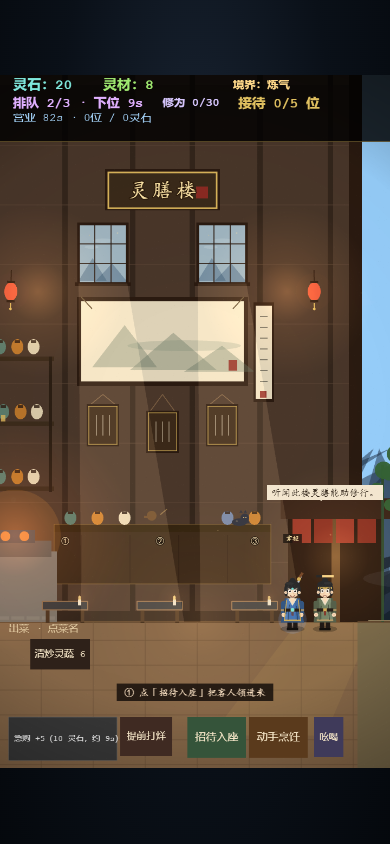
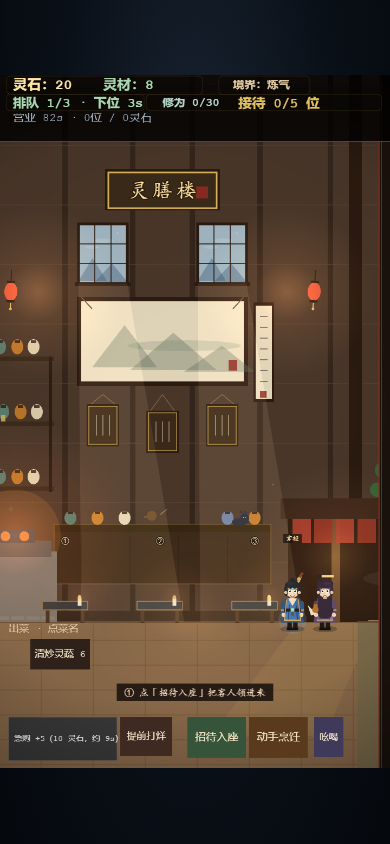
HUD 统一配色分组；封右墙天蓝条；烛光加晕

diff --git a/src/main.ts b/src/main.ts
@@ -1201,6 +1201,8 @@ class TavernScene extends Phaser.Scene {
   private interiorSign?: Phaser.GameObjects.Text;
   private hudBar!: Phaser.GameObjects.Rectangle;
   private hudLine!: Phaser.GameObjects.Rectangle;
+  private hudChips!: Phaser.GameObjects.Graphics;
+  private rightFrame!: Phaser.GameObjects.Container;
   private tutorialBanner!: Phaser.GameObjects.Text;
   private staffChars: Partial<Record<StaffRole, Character>> = {};
   private playerGender: "male" | "female" = "male";
@@ -2186,14 +2188,14 @@ class TavernScene extends Phaser.Scene {
     gfx.clear();
     // 背景墙：暗木与暖灰泥
     gfx.fillStyle(0x493629, 1);
-    gfx.fillRect(-360, 0, 720, FLOOR_Y);
+    gfx.fillRect(-360, 0, 790, FLOOR_Y);
     gfx.fillStyle(0x5a4332, 1);
-    gfx.fillRect(-360, 0, 720, 18);
+    gfx.fillRect(-360, 0, 790, 18);
     gfx.fillStyle(0x33251b, 1);
-    gfx.fillRect(-360, FLOOR_Y - 20, 720, 20);
-    for (const x of [-310, -180, -55, 55, 180, 310]) gfx.fillRect(x - 5, 0, 10, FLOOR_Y);
+    gfx.fillRect(-360, FLOOR_Y - 20, 790, 20);
+    for (const x of [-310, -180, -55, 55, 180, 310, 420]) gfx.fillRect(x - 5, 0, 10, FLOOR_Y);
     gfx.lineStyle(2, 0x5a4434, 0.5);
-    for (let y = 130; y < FLOOR_Y - 20; y += 110) gfx.lineBetween(-360, y, 360, y);
+    for (let y = 130; y < FLOOR_Y - 20; y += 110) gfx.lineBetween(-360, y, 430, y);
 
     // 山水挂画
     gfx.fillStyle(0x2a1a10, 1);
@@ -2321,12 +2323,12 @@ class TavernScene extends Phaser.Scene {
 
     // 地面
     gfx.fillStyle(0x8a6a4a, 1);
-    gfx.fillRect(-360, FLOOR_Y, 720, 1400 - FLOOR_Y);
+    gfx.fillRect(-360, FLOOR_Y, 790, 1400 - FLOOR_Y);
     gfx.lineStyle(3, 0x5a4028, 1);
-    gfx.lineBetween(-360, FLOOR_Y, 360, FLOOR_Y);
+    gfx.lineBetween(-360, FLOOR_Y, 430, FLOOR_Y);
     gfx.lineStyle(2, 0x75583c, 0.6);
-    for (let y = FLOOR_Y + 34; y < 1400; y += 46) gfx.lineBetween(-360, y, 360, y);
-    for (let x = -320; x < 360; x += 96) gfx.lineBetween(x, FLOOR_Y, x, 1400);
+    for (let y = FLOOR_Y + 34; y < 1400; y += 46) gfx.lineBetween(-360, y, 430, y);
+    for (let x = -320; x < 430; x += 96) gfx.lineBetween(x, FLOOR_Y, x, 1400);
 
     // 左侧厨房：石灶、铁锅、火与挂着的炊具
     gfx.fillStyle(0xff9a3a, 0.14);
@@ -2903,6 +2905,11 @@ class TavernScene extends Phaser.Scene {
     this.buildWindowFrames();
     this.buildWindowLight();
     this.buildSceneGrade();
+    // 营业镜头右缘的立柱/帘：遮住墙外的天空色条，同时像一道前景画框
+    this.rightFrame = this.add.container(0, 0).setScrollFactor(0).setDepth(22).setVisible(false);
+    this.rightFrame.add(this.add.rectangle(710, 640, 20, 1280, 0x1a120c, 1));
+    this.rightFrame.add(this.add.rectangle(700, 640, 3, 1280, 0x8a2a22, 0.85));
+    this.rightFrame.add(this.add.rectangle(704, 640, 1.5, 1280, 0xd9b45a, 0.35));
 
     // 顶部 HUD 悬浮条
     this.hudBar = this.add
@@ -2916,17 +2923,29 @@ class TavernScene extends Phaser.Scene {
       .setOrigin(0, 0)
       .setScrollFactor(0)
       .setDepth(30.5);
+    // 四块很淡的底，把资源 / 境界 / 排队 / 进度分组，不再像一排调试数字
+    this.hudChips = this.add.graphics().setScrollFactor(0).setDepth(30.2);
+    this.hudChips.fillStyle(0x0a0704, 0.42);
+    this.hudChips.fillRoundedRect(12, 2, 362, 34, 8);
+    this.hudChips.fillRoundedRect(404, 2, 168, 34, 8);
+    this.hudChips.fillRoundedRect(12, 36, 254, 30, 7);
+    this.hudChips.fillRoundedRect(270, 36, 434, 30, 7);
+    this.hudChips.lineStyle(1, 0x8a6a3a, 0.28);
+    this.hudChips.strokeRoundedRect(12, 2, 362, 34, 8);
+    this.hudChips.strokeRoundedRect(404, 2, 168, 34, 8);
+    this.hudChips.strokeRoundedRect(12, 36, 254, 30, 7);
+    this.hudChips.strokeRoundedRect(270, 36, 434, 30, 7);
 
-    this.coinsText = this.addUiText(24, 6, "", "26px", "#7fe8dd");
-    this.inventoryText = this.addUiText(190, 6, "", "26px", "#9fe870");
+    this.coinsText = this.addUiText(24, 6, "", "26px", "#ffe6a8");
+    this.inventoryText = this.addUiText(190, 6, "", "26px", "#a8d8b0");
     this.levelText = this.addUiText(400, 6, "", "18px", "#87ceeb");
-    this.queueText = this.addUiText(24, 40, "", "24px", "#e0b0ff");
-    this.realmText = this.addUiText(430, 9, "", "21px", "#ffd98a");
-    this.cultivationText = this.addUiText(300, 42, "", "21px", "#d8c8ff");
-    this.goalText = this.addUiText(440, 40, "", "25px", "#9fdf6a");
+    this.queueText = this.addUiText(24, 40, "", "24px", "#d8c8a8");
+    this.realmText = this.addUiText(430, 9, "", "21px", "#e0c9a0");
+    this.cultivationText = this.addUiText(300, 42, "", "21px", "#b8d8c8");
+    this.goalText = this.addUiText(440, 40, "", "25px", "#e0c060");
     this.goalText.setWordWrapWidth(260);
-    this.sessionText = this.addUiText(24, 70, "", "21px", "#a8d8ff");
-    this.chronicleText = this.addUiText(24, 96, "", "17px", "#cccccc");
+    this.sessionText = this.addUiText(24, 70, "", "21px", "#a8b8c8");
+    this.chronicleText = this.addUiText(24, 96, "", "17px", "#b8b0a0");
     [this.coinsText, this.inventoryText, this.queueText, this.realmText, this.cultivationText, this.goalText].forEach(
       (text) => text.setStyle({ fontStyle: "bold" }),
     );
@@ -3246,12 +3265,21 @@ class TavernScene extends Phaser.Scene {
     const candleGlow = this.add
       .image(0, 0, "soft-glow")
       .setTint(0xffa050)
-      .setAlpha(0.12)
-      .setScale(0.24)
+      .setAlpha(0.16)
+      .setScale(0.6)
       .setBlendMode(Phaser.BlendModes.ADD)
       .setDepth(1.9);
-    const candleBody = this.add.rectangle(0, 0, 6, 11, 0xf0e2c8).setDepth(2.7);
-    const candleFlame = this.add.ellipse(0, 0, 5, 9, 0xffd98a).setDepth(2.8);
+    const candleBody = this.add.rectangle(0, 0, 7, 13, 0xf0e2c8).setDepth(2.7);
+    const candleFlame = this.add.ellipse(0, 0, 7, 11, 0xffd98a).setDepth(2.8);
+    this.tweens.add({
+      targets: candleGlow,
+      alpha: { from: 0.12, to: 0.2 },
+      duration: Phaser.Math.Between(900, 1500),
+      yoyo: true,
+      repeat: -1,
+      delay: Phaser.Math.Between(0, 500),
+      ease: "Sine.easeInOut",
+    });
     this.tweens.add({
       targets: candleFlame,
       alpha: { from: 0.65, to: 1 },
@@ -5124,6 +5152,7 @@ class TavernScene extends Phaser.Scene {
     this.cookButton.setVisible(isOpen);
     this.shoutButton.setVisible(isOpen);
     this.setClosedNavVisible(!isOpen && !this.overlay);
+    this.rightFrame.setVisible(isOpen);
 
     this.playerChar.setVisible(isOpen);
     Object.values(this.staffChars).forEach((c) => c?.setVisible(isOpen));
@@ -5657,6 +5686,8 @@ class TavernScene extends Phaser.Scene {
     const ui: { setVisible(visible: boolean): unknown }[] = [
       this.hudBar,
       this.hudLine,
+      this.hudChips,
+      this.rightFrame,
       this.coinsText,
       this.inventoryText,
       this.queueText,
@@ -6760,7 +6791,7 @@ class TavernScene extends Phaser.Scene {
 
     this.coinsText.setText(`灵石：${this.displayedCoins}`);
     this.inventoryText.setText(`灵材：${this.inventory}`);
-    this.inventoryText.setColor(this.inventory <= 0 ? "#ff9a8a" : "#9fe870");
+    this.inventoryText.setColor(this.inventory <= 0 ? "#ff9a8a" : "#a8d8b0");
     this.levelText.setText(`酒楼等级：${this.level}`);
     const queueCap = getBoothCount(this.level);
     if (open && !this.settling && this.queue.length >= queueCap) {
@@ -6769,10 +6800,10 @@ class TavernScene extends Phaser.Scene {
     } else if (open && !this.settling && !this.lastCallTriggered) {
       const nextIn = Math.max(0, Math.ceil((this.nextArrivalAt - this.time.now) / 1000));
       this.queueText.setText(`排队 ${this.queue.length}/${queueCap} · 下位 ${nextIn}s`);
-      this.queueText.setColor("#e0b0ff");
+      this.queueText.setColor("#a8d8b0");
     } else {
       this.queueText.setText(`排队：${this.queue.length}/${queueCap}`);
-      this.queueText.setColor("#e0b0ff");
+      this.queueText.setColor("#d8c8a8");
     }
     const next = getNextRealm(this.cultivation);
     this.realmText.setText(`境界：${REALMS[this.realmIndex()].name}`);
@@ -6807,7 +6838,7 @@ class TavernScene extends Phaser.Scene {
       this.goalText.setText(
         reached ? "今日目标 ✓" : `${prefix} ${progress}/${this.sessionGoal.target}${unit}`,
       );
-      this.goalText.setColor(reached ? "#9fdf6a" : "#e0c060");
+      this.goalText.setColor(reached ? "#a8d8b0" : "#e0c060");
       if (reached && !this.goalAnnounced) {
         this.goalAnnounced = true;
         playSfx("upgrade");
@@ -6913,6 +6944,7 @@ class TavernScene extends Phaser.Scene {
     this.serveButton.setVisible(open);
     this.cookButton.setVisible(open);
     this.shoutButton.setVisible(open);
+    this.rightFrame.setVisible(open);
     // 菜单/店铺面板打开时也收起事务卡，避免透明卡片的命中区压到面板按钮上
     this.setClosedNavVisible(this.gameState === "closed" && !this.overlay);
     this.purchaseButton.setVisible(true);

diff --git a/docs/playtest.md b/docs/playtest.md
@@ -19,6 +19,7 @@
 - **营业中减负与字号**：状态栏高度 124；主数值 26px、排队 24px、目标 25px、营业行 21px；见闻录与音效/音乐开关在营业中收起，打烊后再出现，主屏不再被日志和按钮挤占。
 - **打烊页与菜单重排**：打烊页的 8 个事务入口从一行行小字改成 2×4 大卡片（整卡可点、暖色经营组 / 冷色查阅组，26px 主字 + 一行副标题）；菜单的三选一目标改成「大数字 + 奖励」卡片，菜名 26px、详情 17px、开张按钮 24px；营造与伙计页的正文字号同步上调。菜单右下加一层很淡的月、远山与朱印水印，填空黑但不抢字；每道菜右侧加一个程序绘制的小碗（汤色、配料、筷子与热气），菜单至少有“菜”。菜少于 4 道时，中段再放一只大汤碗、竹筷、桌面与热气，写「今日开张 · 菜名」，把早期菜单的大块空黑变成一张摆盘。
 - **结算页先给结论**：面板顶部先放 54px 的「今日净收益 +188 灵石」，下面一行「服务 20 位 · 收入 200 · 支出 12」与目标/三日之约状态；明细只留下成本与余额。遮罩从只盖主屏改成全屏 58% 黑，底栏一起压暗；「打烊」改成 544px 通栏绿色按钮，写「打烊 · 进入第 N 日」。净收益不再埋在第 10 行。
+- **HUD 与右墙**：主数值/排队/目标从青、紫、荧光绿收进暖金、米白、玉色，顶部四块淡底把资源 / 境界 / 排队 / 进度分组；营业镜头右缘的墙从 360 延到 430，封住原来漏出的天空蓝条；每桌小烛加 0.6 倍暖光晕与明暗呼吸。
 - **明日预告**：结算单列「明日：天气 · 招牌 · 目标可自选」，给下一次开门一个具体的期待；换日时保留玩家上一次选中的目标类型。
 - **三日之约**：每日目标连达 3 天（半赏也算）额外赏 `20+5×等级` 灵石与 2–3 修为；菜单常驻进度，结算显示达成/下一档，存档保留。它给每日目标一个跨日的中期赌注，而不是每天结算完就归零。
 - **常客预告**：菜单页在标题下直接写「常客 柳含烟 已在路上 · 想吃 清炒灵蔬（上菜单 +50%）」；第一位到店的客人一定是他。玩家因此可以在选菜前为具体的人做决定，而不是只看随机客人。
